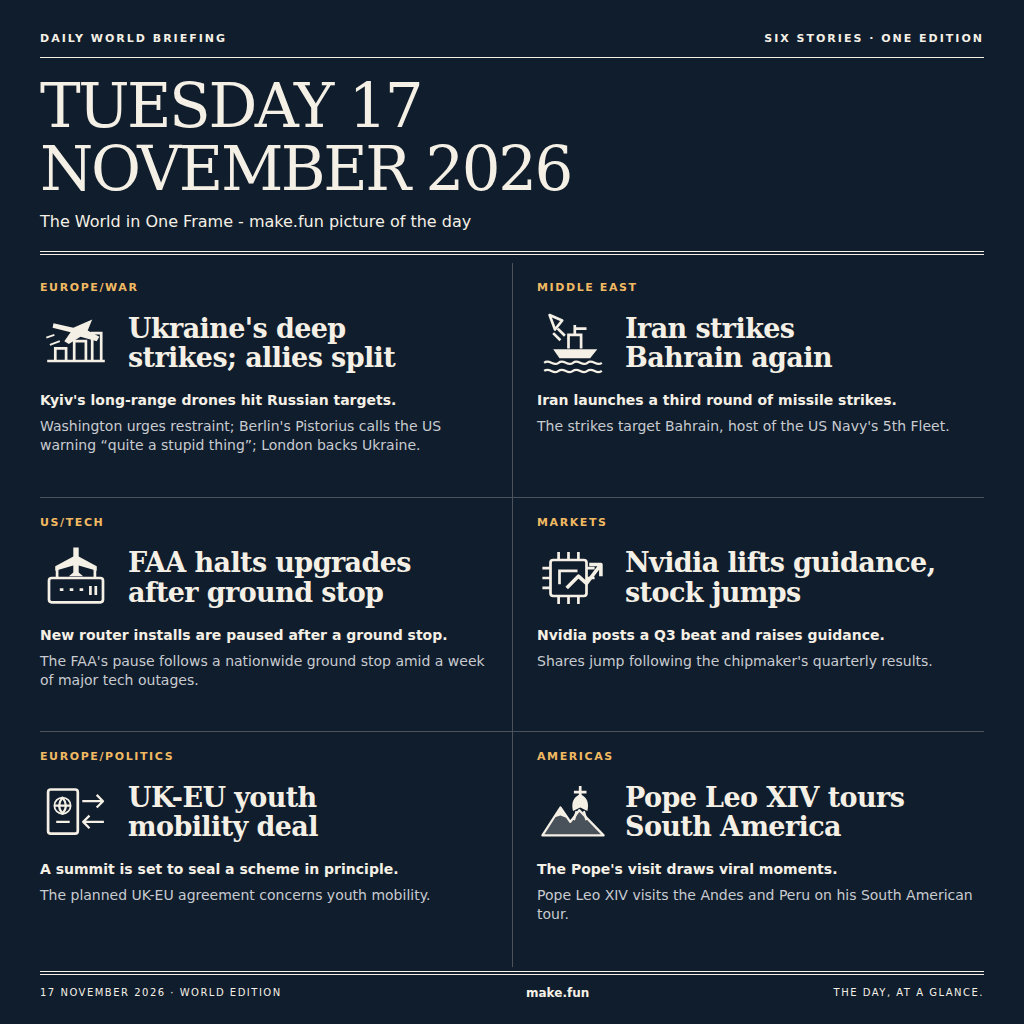
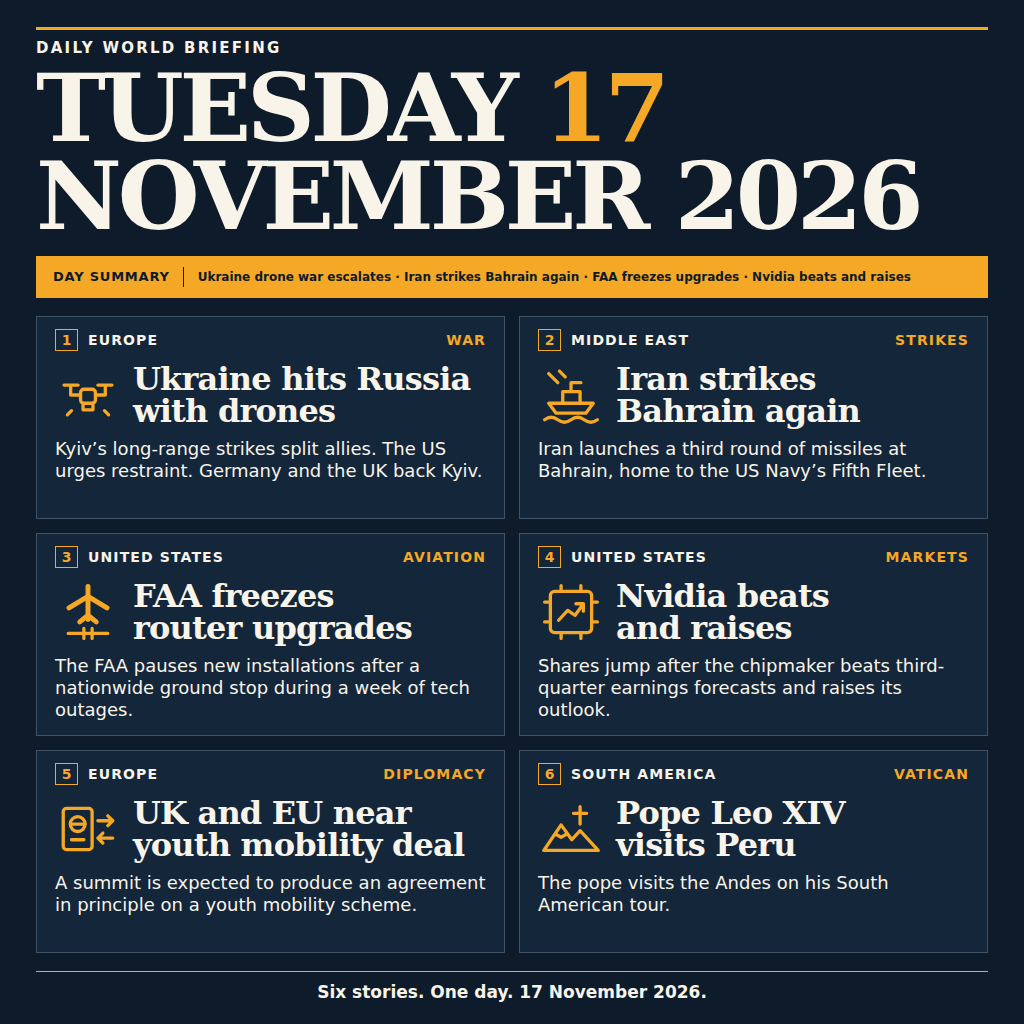
v2 design: no clipping, dominant date, day-summary strip, numbered cards

diff --git a/news.html b/news.html
@@ -5,130 +5,211 @@
   <meta name="viewport" content="width=device-width, initial-scale=1">
   <title>The World in One Frame — 17 November 2026</title>
   <style>
-    :root { color-scheme: dark; --navy: #101d2d; --cream: #f5f0e5; --muted: #c8cbd0; --amber: #f1ba62; --rule: #49525d; }
+    :root {
+      color-scheme: dark;
+      --navy: #0d1b2a;
+      --cream: #f8f4e9;
+      --amber: #f4a825;
+      --panel: #14263a;
+      --rule: #405267;
+    }
     * { box-sizing: border-box; }
-    html, body { margin: 0; width: 1024px; height: 1024px; }
-    body { background: var(--navy); color: var(--cream); font-family: Arial, sans-serif; }
-    .page { width: 1024px; height: 1024px; padding: 32px 40px 24px; display: flex; flex-direction: column; }
-    .edition { display: flex; justify-content: space-between; padding-bottom: 12px; border-bottom: 1px solid var(--cream); font-size: 11px; font-weight: bold; letter-spacing: 2px; text-transform: uppercase; }
-    h1 { margin: 16px 0 10px; font-family: Georgia, serif; font-weight: normal; font-size: 61px; line-height: 1.04; letter-spacing: -2.5px; }
-    h1 span { display: block; }
-    .subtitle { margin: 0; padding: 0 0 18px; font-size: 16px; line-height: 22px; border-bottom: 4px double var(--cream); }
-    .stories { flex: 1; min-height: 0; display: grid; grid-template-columns: repeat(2, minmax(0, 1fr)); grid-template-rows: repeat(3, minmax(0, 1fr)); margin-top: 8px; }
-    .story { padding: 18px 24px 15px 0; min-width: 0; border-bottom: 1px solid var(--rule); }
-    .story:nth-child(even) { padding-left: 24px; padding-right: 0; border-left: 1px solid var(--rule); }
-    .story:nth-last-child(-n+2) { border-bottom: 0; }
-    .region { margin: 0 0 12px; color: var(--amber); font-size: 11px; line-height: 14px; font-weight: bold; letter-spacing: 1.6px; }
-    .story-top { display: flex; align-items: center; gap: 16px; min-height: 70px; margin-bottom: 12px; }
-    .icon { flex: 0 0 72px; width: 72px; height: 72px; color: var(--cream); }
-    h2 { margin: 0; font-family: Georgia, serif; font-size: 27px; line-height: 1.08; font-weight: bold; letter-spacing: -.6px; text-wrap: balance; }
-    .caption { margin: 0 0 7px; font-size: 14px; line-height: 19px; font-weight: bold; white-space: nowrap; }
-    .detail { margin: 0; color: var(--muted); font-size: 14px; line-height: 19px; }
-    footer { display: flex; justify-content: space-between; align-items: center; border-top: 4px double var(--cream); padding-top: 11px; margin-top: 4px; font-size: 10px; line-height: 14px; letter-spacing: 1.5px; text-transform: uppercase; }
-    footer strong { font-size: 12px; letter-spacing: 0; text-transform: none; }
+    body { margin: 0; background: var(--navy); color: var(--cream); font-family: Arial, sans-serif; }
+    .page {
+      width: 1024px;
+      height: 1024px;
+      margin-inline: auto;
+      padding: 27px 36px 22px;
+      display: grid;
+      grid-template-columns: minmax(0, 1fr);
+      grid-template-rows: auto minmax(0, 1fr) auto;
+      gap: 18px;
+    }
+    .edition {
+      margin: 0;
+      padding-top: 9px;
+      border-top: 3px solid var(--amber);
+      font-size: 15px;
+      line-height: 18px;
+      font-weight: bold;
+      letter-spacing: .15em;
+      text-transform: uppercase;
+    }
+    h1 {
+      margin: 7px 0 15px;
+      font-family: Georgia, serif;
+      font-size: 94px;
+      line-height: .94;
+      letter-spacing: -.045em;
+    }
+    h1 strong { color: var(--amber); }
+    .summary {
+      display: flex;
+      align-items: center;
+      gap: 14px;
+      margin: 0;
+      padding: 11px 17px;
+      background: var(--amber);
+      color: var(--navy);
+      font-size: 12px;
+      line-height: 20px;
+      font-weight: bold;
+      white-space: nowrap;
+    }
+    .summary strong {
+      padding-right: 13px;
+      border-right: 1px solid var(--navy);
+      font-size: 13px;
+      letter-spacing: .06em;
+    }
+    .stories {
+      display: grid;
+      grid-template-columns: repeat(2, minmax(0, 1fr));
+      grid-template-rows: repeat(3, minmax(0, 1fr));
+      gap: 14px;
+    }
+    .story {
+      min-width: 0;
+      padding: 12px 18px;
+      border: 1px solid var(--rule);
+      background: var(--panel);
+      overflow-wrap: anywhere;
+    }
+    .story-labels {
+      display: flex;
+      align-items: center;
+      gap: 10px;
+      margin: 0 0 8px;
+      font-size: 14px;
+      line-height: 20px;
+      font-weight: bold;
+      letter-spacing: .08em;
+    }
+    .number {
+      min-width: 23px;
+      border: 1px solid var(--amber);
+      text-align: center;
+      color: var(--amber);
+      letter-spacing: 0;
+    }
+    .topic { margin-left: auto; color: var(--amber); }
+    .story-top { display: flex; align-items: center; gap: 12px; min-height: 72px; margin-bottom: 7px; }
+    .icon {
+      flex: 0 0 66px;
+      width: 66px;
+      height: 66px;
+      color: var(--amber);
+      stroke: currentColor;
+      stroke-width: 4;
+      stroke-linecap: round;
+      stroke-linejoin: round;
+    }
+    h2 {
+      min-width: 0;
+      margin: 0;
+      font-family: Georgia, serif;
+      font-size: 32px;
+      line-height: 1;
+      letter-spacing: -.025em;
+      text-wrap: balance;
+    }
+    .caption { margin: 0; font-size: 18px; line-height: 22px; }
+    footer {
+      margin: 0;
+      padding-top: 10px;
+      border-top: 1px solid var(--amber);
+      text-align: center;
+      font-size: 17px;
+      line-height: 20px;
+      font-weight: bold;
+    }
     @media print { @page { size: 1024px 1024px; margin: 0; } body { print-color-adjust: exact; -webkit-print-color-adjust: exact; } }
   </style>
 </head>
 <body>
   <main class="page">
     <header>
-      <div class="edition"><span>Daily world briefing</span><span>Six stories · One edition</span></div>
-      <h1><span>TUESDAY 17</span><span>NOVEMBER 2026</span></h1>
-      <p class="subtitle">The World in One Frame - make.fun picture of the day</p>
+      <p class="edition">Daily world briefing</p>
+      <h1><time datetime="2026-11-17">TUESDAY <strong>17</strong><br>
+        NOVEMBER 2026</time></h1>
+      <p class="summary"><strong>DAY SUMMARY</strong><span>Ukraine drone war escalates · Iran strikes Bahrain again · FAA freezes upgrades · Nvidia beats and raises</span></p>
     </header>
 
     <section class="stories" aria-label="Six world news stories">
       <article class="story">
-        <p class="region">EUROPE/WAR</p>
+        <p class="story-labels"><span class="number">1</span><span>EUROPE</span><span class="topic">WAR</span></p>
         <div class="story-top">
           <svg class="icon" viewBox="0 0 80 80" aria-hidden="true" fill="none" xmlns="http://www.w3.org/2000/svg">
-            <path d="M8 60h64M17 60V46h12v14m9 0V38h13v22m7 0V29h10v31" stroke="currentColor" stroke-width="3"/>
-            <path d="m15 18 22 5 21-9-5 12 13 7-3 5-18-5-13 8-5-3 7-10-20-5Z" fill="currentColor"/>
-            <path d="m7 34 9-3m-5 11 11-4" stroke="currentColor" stroke-width="2"/>
+            <path d="M11 28h17m24 0h17M19 28v12h12m30-12v12H49"/>
+            <rect x="31" y="33" width="18" height="17" rx="4"/>
+            <path d="M34 50v8h12v-8M20 59l-5 5m45-5 5 5"/>
           </svg>
-          <h2>Ukraine's deep strikes; allies split</h2>
+          <h2>Ukraine hits Russia<br>with drones</h2>
         </div>
-        <p class="caption">Kyiv's long-range drones hit Russian targets.</p>
-        <p class="detail">Washington urges restraint; Berlin's Pistorius calls the US warning “quite a stupid thing”; London backs Ukraine.</p>
+        <p class="caption">Kyiv’s long-range strikes split allies. The US urges restraint. Germany and the UK back Kyiv.</p>
       </article>
 
       <article class="story">
-        <p class="region">MIDDLE EAST</p>
+        <p class="story-labels"><span class="number">2</span><span>MIDDLE EAST</span><span class="topic">STRIKES</span></p>
         <div class="story-top">
           <svg class="icon" viewBox="0 0 80 80" aria-hidden="true" fill="none" xmlns="http://www.w3.org/2000/svg">
-            <path d="M8 62c6-5 10 5 16 0s10 5 16 0 10 5 16 0 10 5 16 0M8 71c6-5 10 5 16 0s10 5 16 0 10 5 16 0 10 5 16 0" stroke="currentColor" stroke-width="2.5"/>
-            <path d="m18 47 7 10h34l8-10H18Z" fill="currentColor"/>
-            <path d="M35 46V31h14v15M42 31V20m0 4h13" stroke="currentColor" stroke-width="3"/>
-            <path d="m14 9 14 6-8 10-6-16Zm9 15 8 8m-13-3 8 8" stroke="currentColor" stroke-width="3" stroke-linejoin="round"/>
+            <path d="m13 50 9 12h36l9-12H13Zm17 0V36h21v14m-11-14V25h12"/>
+            <path d="M8 70q8-6 16 0 8 6 16 0t16 0 16 0M13 14l11 11m2-14 7 7"/>
           </svg>
           <h2>Iran strikes Bahrain again</h2>
         </div>
-        <p class="caption">Iran launches a third round of missile strikes.</p>
-        <p class="detail">The strikes target Bahrain, host of the US Navy's 5th Fleet.</p>
+        <p class="caption">Iran launches a third round of missiles at Bahrain, home to the US Navy’s Fifth Fleet.</p>
       </article>
 
       <article class="story">
-        <p class="region">US/TECH</p>
+        <p class="story-labels"><span class="number">3</span><span>UNITED STATES</span><span class="topic">AVIATION</span></p>
         <div class="story-top">
           <svg class="icon" viewBox="0 0 80 80" aria-hidden="true" fill="none" xmlns="http://www.w3.org/2000/svg">
-            <rect x="10" y="40" width="60" height="27" rx="3" stroke="currentColor" stroke-width="3"/>
-            <path d="M19 40V27m42 13V27M22 53h4m7 0h4m7 0h4" stroke="currentColor" stroke-width="3"/>
-            <path d="m37 6 6 0v10l20 11v5l-20-6v8l5 4H32l5-4v-8l-20 6v-5l20-11V6Z" fill="currentColor"/>
-            <path d="M56 49v10m6-10v10" stroke="currentColor" stroke-width="3"/>
+            <path d="M40 9v40m0-28L17 35m23-14 23 14M40 44l-10 8m10-8 10 8" stroke-width="6"/>
+            <path d="M16 66h48m-29-6v12m10-12v12"/>
           </svg>
-          <h2>FAA halts upgrades after ground stop</h2>
+          <h2>FAA freezes<br>router upgrades</h2>
         </div>
-        <p class="caption">New router installs are paused after a ground stop.</p>
-        <p class="detail">The FAA's pause follows a nationwide ground stop amid a week of major tech outages.</p>
+        <p class="caption">The FAA pauses new installations after a nationwide ground stop during a week of tech outages.</p>
       </article>
 
       <article class="story">
-        <p class="region">MARKETS</p>
+        <p class="story-labels"><span class="number">4</span><span>UNITED STATES</span><span class="topic">MARKETS</span></p>
         <div class="story-top">
           <svg class="icon" viewBox="0 0 80 80" aria-hidden="true" fill="none" xmlns="http://www.w3.org/2000/svg">
-            <rect x="15" y="20" width="40" height="40" rx="3" stroke="currentColor" stroke-width="3"/>
-            <path d="M24 11v9m11-9v9m11-9v9M24 60v9m11-9v9m11-9v9M6 29h9m-9 11h9M6 51h9m40-22h9m-9 11h9" stroke="currentColor" stroke-width="3"/>
-            <path d="M25 47V32h20" stroke="currentColor" stroke-width="3"/>
-            <path d="m33 51 13-13 9 8 16-21m-13 0h13v13" stroke="currentColor" stroke-width="4" stroke-linejoin="round"/>
+            <rect x="15" y="15" width="50" height="50" rx="5"/>
+            <path d="M28 8v7m24-7v7M28 65v7m24-7v7M8 28h7m-7 24h7m50-24h7m-7 24h7M25 50l11-12 9 6 10-14m-9 0h9v9"/>
           </svg>
-          <h2>Nvidia lifts guidance, stock jumps</h2>
+          <h2>Nvidia beats and raises</h2>
         </div>
-        <p class="caption">Nvidia posts a Q3 beat and raises guidance.</p>
-        <p class="detail">Shares jump following the chipmaker's quarterly results.</p>
+        <p class="caption">Shares jump after the chipmaker beats third-quarter earnings forecasts and raises its outlook.</p>
       </article>
 
       <article class="story">
-        <p class="region">EUROPE/POLITICS</p>
+        <p class="story-labels"><span class="number">5</span><span>EUROPE</span><span class="topic">DIPLOMACY</span></p>
         <div class="story-top">
           <svg class="icon" viewBox="0 0 80 80" aria-hidden="true" fill="none" xmlns="http://www.w3.org/2000/svg">
-            <rect x="9" y="15" width="33" height="49" rx="3" stroke="currentColor" stroke-width="3"/>
-            <circle cx="25" cy="33" r="9" stroke="currentColor" stroke-width="2"/>
-            <path d="M16 33h18m-9-9c-5 6-5 12 0 18 5-6 5-12 0-18ZM18 51h15M47 28h23m-7-7 7 7-7 7M71 51H48m7-7-7 7 7 7" stroke="currentColor" stroke-width="2.5" stroke-linejoin="round"/>
+            <rect x="10" y="15" width="35" height="50" rx="4"/>
+            <circle cx="27.5" cy="34" r="9"/>
+            <path d="M19 34h17M20 53h15m17-23h18l-6-6m6 6-6 6m6 15H52l6-6m-6 6 6 6"/>
           </svg>
-          <h2>UK-EU youth mobility deal</h2>
+          <h2>UK and EU near<br>youth mobility deal</h2>
         </div>
-        <p class="caption">A summit is set to seal a scheme in principle.</p>
-        <p class="detail">The planned UK-EU agreement concerns youth mobility.</p>
+        <p class="caption">A summit is expected to produce an agreement in principle on a youth mobility scheme.</p>
       </article>
 
       <article class="story">
-        <p class="region">AMERICAS</p>
+        <p class="story-labels"><span class="number">6</span><span>SOUTH AMERICA</span><span class="topic">VATICAN</span></p>
         <div class="story-top">
           <svg class="icon" viewBox="0 0 80 80" aria-hidden="true" fill="none" xmlns="http://www.w3.org/2000/svg">
-            <path d="m6 66 20-31 11 16 10-13 27 28H6Z" fill="currentColor" opacity=".25"/>
-            <path d="m6 66 20-31 11 16 10-13 27 28H6Z" stroke="currentColor" stroke-width="2.5" stroke-linejoin="round"/>
-            <path d="m19 46 7-11 8 12-8-3-7 2Z" fill="currentColor"/>
-            <path d="M48 31V11m-7 7h14" stroke="currentColor" stroke-width="3"/>
-            <path d="M40 39c-2-9 0-15 8-19 8 4 10 10 8 19l-8-4-8 4Z" fill="currentColor"/>
-            <path d="m44 39-3 10m11-10 3 10" stroke="currentColor" stroke-width="2.5"/>
+            <path d="m7 66 21-31 13 18 10-11 22 24H7Zm14-20 7 4 7-4M51 13v21m-8-13h16"/>
           </svg>
-          <h2>Pope Leo XIV tours South America</h2>
+          <h2>Pope Leo XIV<br>visits Peru</h2>
         </div>
-        <p class="caption">The Pope's visit draws viral moments.</p>
-        <p class="detail">Pope Leo XIV visits the Andes and Peru on his South American tour.</p>
+        <p class="caption">The pope visits the Andes on his South American tour.</p>
       </article>
     </section>
-    <footer><span>17 November 2026 · World edition</span><strong>make.fun</strong><span>The day, at a glance.</span></footer>
+    <footer>Six stories. One day. 17 November 2026.</footer>
   </main>
 </body>
 </html>
